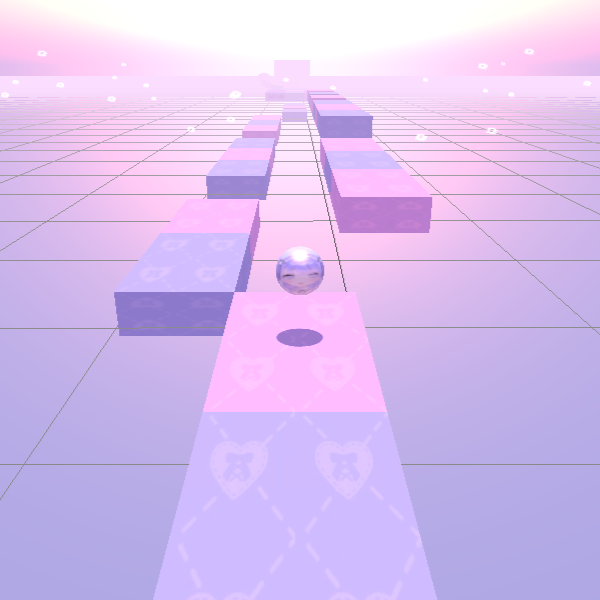
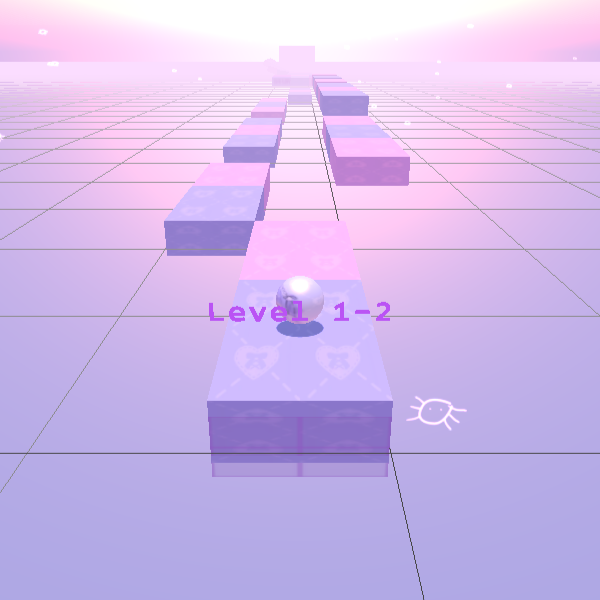
Change level 1-2 image to have text. Fix issue where sometimes level text is not added to shared image thumbnail

diff --git a/js/amiyaroads.js b/js/amiyaroads.js
@@ -8,7 +8,7 @@ import { LanguageToggle } from './utils/LanguageToggle.js';
 import { SVGLoader } from './jsm/loaders/SVGLoader.js';
 import { FontLoader } from './jsm/loaders/FontLoader.js';
 import { TTFLoader } from './jsm/loaders/TTFLoader.js';
-const versionString = "PRE-ALPHA Build 0.4.8 \"Dehumidified-Spider-Sweat\"";
+const versionString = "PRE-ALPHA Build 0.4.9 \"Dehumidified-Spider-Sweat\"";
 
 let stats;
 
@@ -274,6 +274,7 @@ function initFirstTime() {
 	}
 	$('.export-button').on('click', function (e) {
 		e.preventDefault();
+		initFont();
 		var cover = $("#cover");
 		text.material.opacity = 1;
 		text.position.x = player.position.x;
